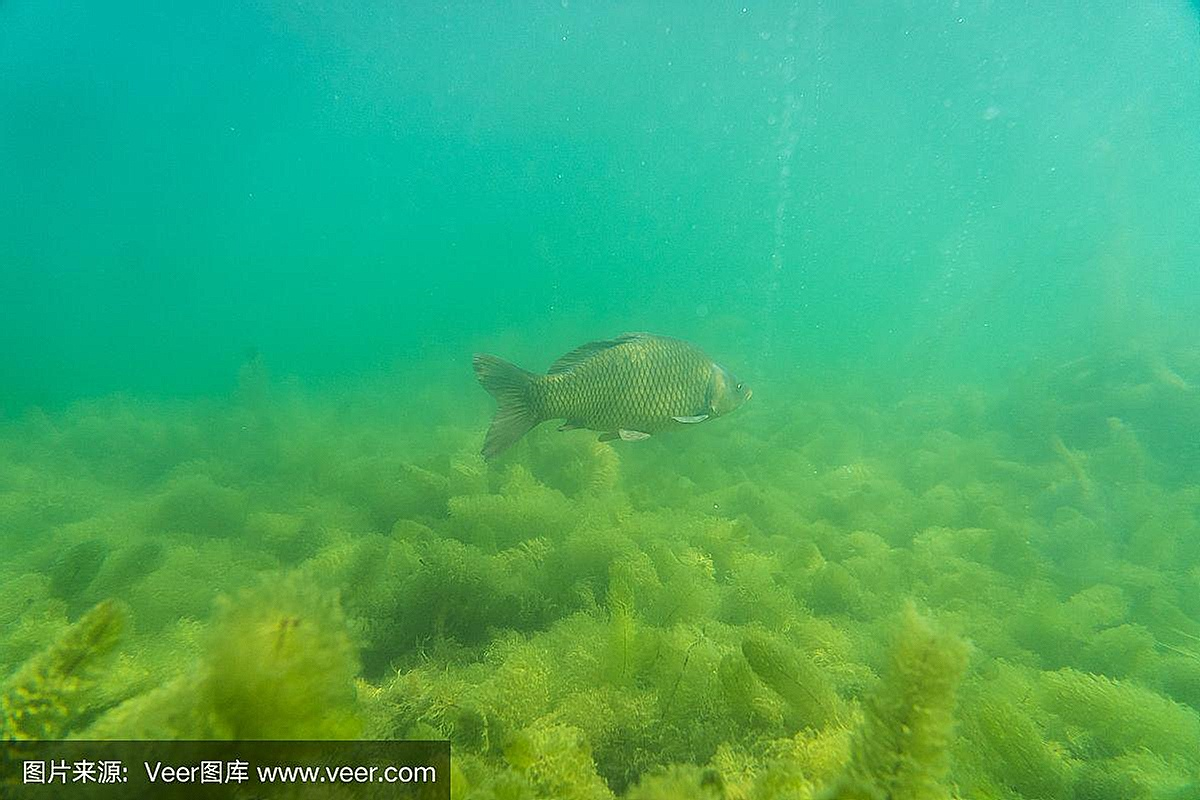
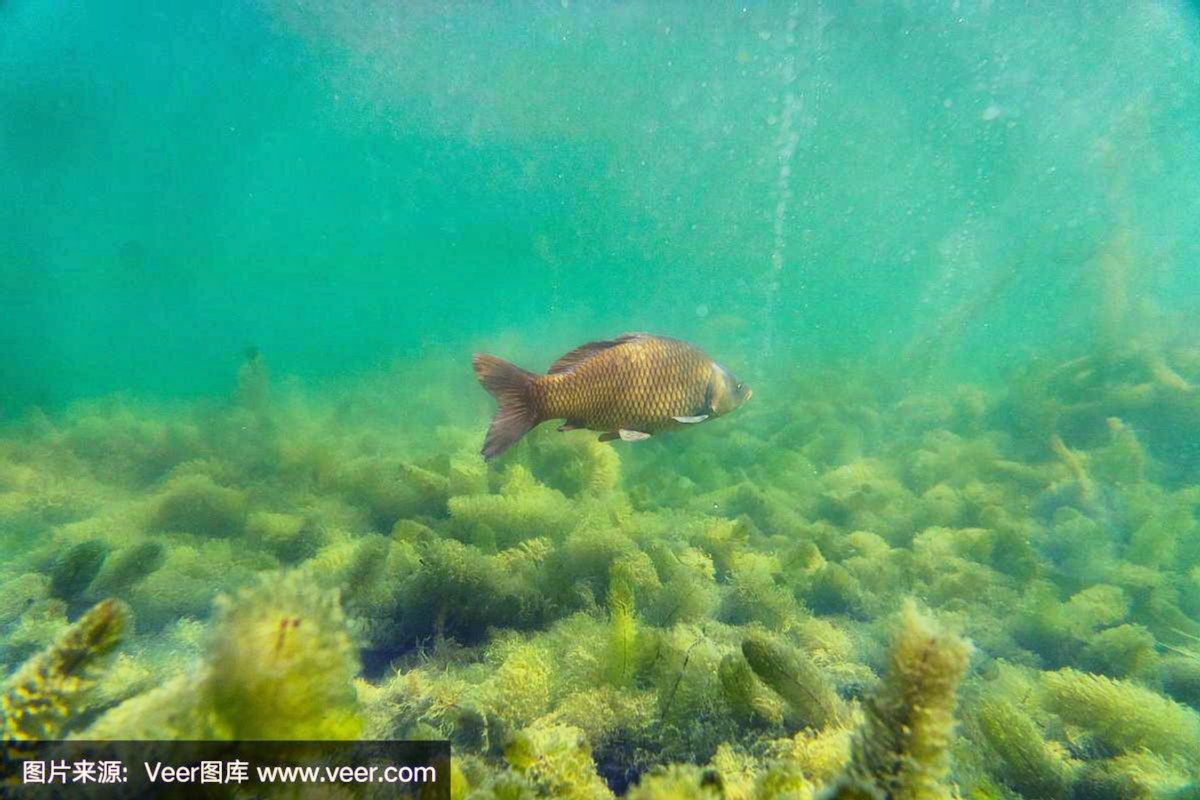
lab1-2 update

diff --git a/src/lab1-2.cpp b/src/lab1-2.cpp
@@ -1,26 +1,35 @@
 #include<opencv2/opencv.hpp>
 using namespace cv;
 using namespace std;
-void proc(string* path,string* out_path,int laplace_size,int bulrsize,float coredata[]){
+
+void proc_laplace(string* path,string* out_path,int laplace_size,int bulrsize,float coredata[]){
 	Mat img=imread(*path);
 	imshow("src",img);
 	Mat dest,tmp;
 	tmp = Mat::ones( bulrsize, bulrsize, CV_32F )/ (float)(bulrsize*bulrsize);
 	Mat kernel(laplace_size,laplace_size,CV_32F,coredata);
+	float core_1[]={-1,0,1,-2,1,2,-1,0,1};
 	filter2D(img,img,-1,tmp);
 	filter2D(img,dest,-1,kernel);
-	
+	vector<Mat> bgr_planes;
+    split(img,bgr_planes);
+	for(int i=0;i<3;i++){
+		Ptr<CLAHE> clahe = createCLAHE();
+		clahe->setClipLimit(2);
+		clahe->apply(bgr_planes[i],bgr_planes[i]);
+	}
+	merge(bgr_planes,dest);
 	imshow("dest",dest);
 	imwrite(*out_path,dest);
 	waitKey(0);
 }
 int main(){
 	float core[9]={0,-1,0,-1,5,-1,0,-1,0};
-    string img1_path="./img/img1.jfif"; 
-    string img2_path="./img/img2.jfif"; 
-    string img1_out_path="./img/imgout1.jpg"; 
-    string img2_out_path="./img/imgout2.jpg"; 
-    proc(&img1_path,&img1_out_path,3,2,core);
-    proc(&img2_path,&img2_out_path,3,2,core);
+    string img1_path="../img/img1.jfif"; 
+    string img2_path="../img/img2.jfif"; 
+    string img1_out_path="../img/imgout1.jpg"; 
+    string img2_out_path="../img/imgout2.jpg"; 
+    proc_laplace(&img1_path,&img1_out_path,3,2,core);
+    proc_laplace(&img2_path,&img2_out_path,3,2,core);
     return 0;
 }
